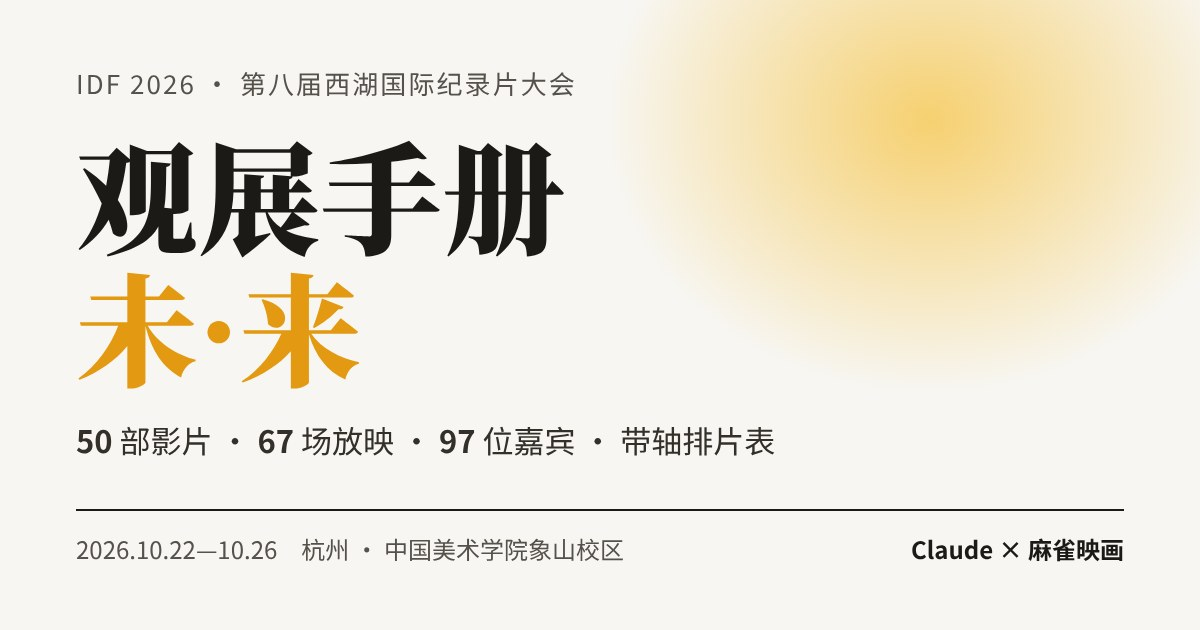
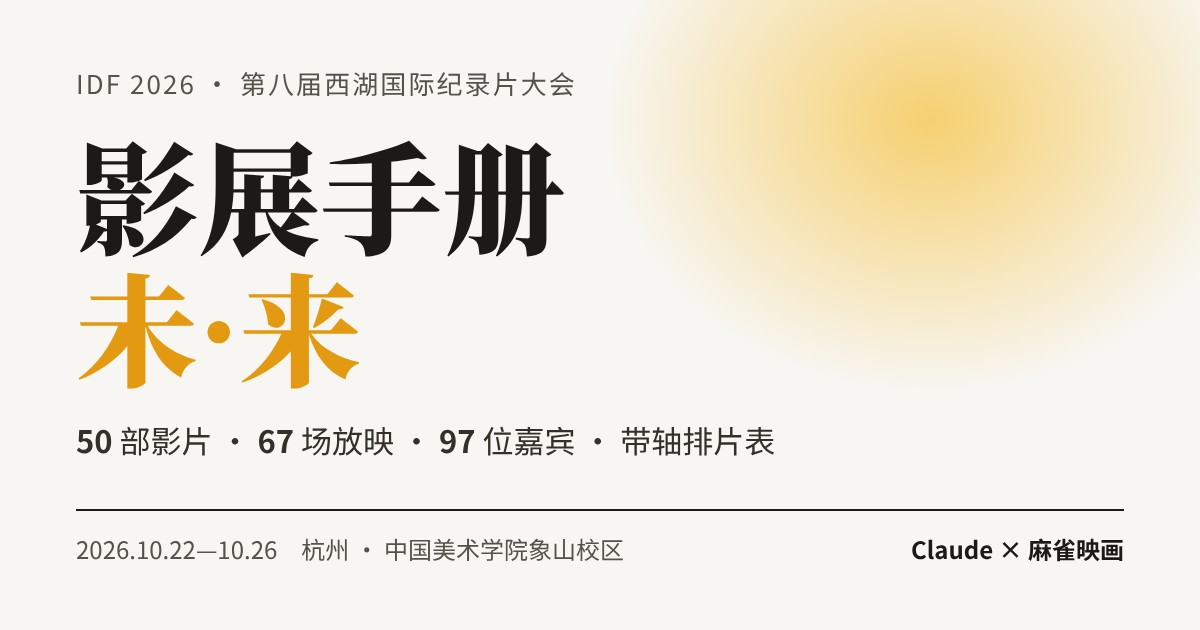
Rename 观展手册 to 影展手册 everywhere
Claude-Session: https://claude.ai/code/session_01GXJMQ1AtU4YhiMQXyR3Uct

Changed region(s): [[0.0617, 0.2111, 0.185, 0.4222]]

diff --git a/index.html b/index.html
@@ -3,7 +3,7 @@
 <head>
 <meta charset="utf-8">
 <meta name="viewport" content="width=device-width,initial-scale=1,maximum-scale=1,viewport-fit=cover">
-<meta name="description" content="第八届西湖国际纪录片大会（2026.10.22—10.26）观展手册：50 部影片、67 场放映、97 位嘉宾，带轴排片表、想看收藏、活动日程与场馆交通。中英双语。由 Claude × 麻雀映画整理。">
+<meta name="description" content="第八届西湖国际纪录片大会（2026.10.22—10.26）影展手册：50 部影片、67 场放映、97 位嘉宾，带轴排片表、想看收藏、活动日程与场馆交通。中英双语。由 Claude × 麻雀映画整理。">
 <meta name="theme-color" content="#f7f6f2" media="(prefers-color-scheme: light)">
 <meta name="theme-color" content="#131210" media="(prefers-color-scheme: dark)">
 <meta name="apple-mobile-web-app-capable" content="yes">
@@ -14,22 +14,22 @@
 <link rel="canonical" href="https://sparrowcinema.github.io/idf2026/">
 <meta property="og:type" content="website">
 <meta property="og:site_name" content="麻雀映画 Sparrow Cinema">
-<meta property="og:title" content="IDF2026 观展手册｜第八届西湖国际纪录片大会">
-<meta property="og:description" content="第八届西湖国际纪录片大会（2026.10.22—10.26）观展手册：50 部影片、67 场放映、97 位嘉宾，带轴排片表、想看收藏、活动日程与场馆交通。中英双语。由 Claude × 麻雀映画整理。">
+<meta property="og:title" content="IDF2026 影展手册｜第八届西湖国际纪录片大会">
+<meta property="og:description" content="第八届西湖国际纪录片大会（2026.10.22—10.26）影展手册：50 部影片、67 场放映、97 位嘉宾，带轴排片表、想看收藏、活动日程与场馆交通。中英双语。由 Claude × 麻雀映画整理。">
 <meta property="og:url" content="https://sparrowcinema.github.io/idf2026/">
-<meta property="og:image" content="https://sparrowcinema.github.io/idf2026/share.jpg">
+<meta property="og:image" content="https://sparrowcinema.github.io/idf2026/share-v2.jpg">
 <meta property="og:image:width" content="1200">
 <meta property="og:image:height" content="630">
 <meta property="og:locale" content="zh_CN">
 <meta property="og:locale:alternate" content="en_US">
 <meta name="twitter:card" content="summary_large_image">
-<meta name="twitter:title" content="IDF2026 观展手册｜第八届西湖国际纪录片大会">
-<meta name="twitter:description" content="第八届西湖国际纪录片大会（2026.10.22—10.26）观展手册：50 部影片、67 场放映、97 位嘉宾，带轴排片表、想看收藏、活动日程与场馆交通。中英双语。由 Claude × 麻雀映画整理。">
-<meta name="twitter:image" content="https://sparrowcinema.github.io/idf2026/share.jpg">
-<meta itemprop="name" content="IDF2026 观展手册">
+<meta name="twitter:title" content="IDF2026 影展手册｜第八届西湖国际纪录片大会">
+<meta name="twitter:description" content="第八届西湖国际纪录片大会（2026.10.22—10.26）影展手册：50 部影片、67 场放映、97 位嘉宾，带轴排片表、想看收藏、活动日程与场馆交通。中英双语。由 Claude × 麻雀映画整理。">
+<meta name="twitter:image" content="https://sparrowcinema.github.io/idf2026/share-v2.jpg">
+<meta itemprop="name" content="IDF2026 影展手册">
 <meta itemprop="image" content="https://sparrowcinema.github.io/idf2026/icon-512.png">
 <style>:root{box-sizing:border-box;padding-top:env(safe-area-inset-top,0px);padding-bottom:env(safe-area-inset-bottom,0px)}body{margin:0}img{max-width:100%}[hidden]{display:none!important}</style>
-<title>IDF2026 观展手册</title>
+<title>IDF2026 影展手册</title>
 <link rel="preconnect" href="https://fonts.googleapis.com">
 <link rel="preconnect" href="https://fonts.gstatic.com" crossorigin>
 <link rel="stylesheet" href="https://fonts.googleapis.com/css2?family=Noto+Serif+SC:wght@500;700&family=Noto+Sans+SC:wght@400;500;700&family=Unbounded:wght@500;700&family=IBM+Plex+Mono:wght@400;500&display=swap">
@@ -837,7 +837,7 @@ const TOCS=[['s-book','观影预约','Booking'],['s-sched','活动日程','Event
 const TICON={"s-book": "<path d=\"M4 7.5a1.5 1.5 0 0 1 1.5-1.5h13A1.5 1.5 0 0 1 20 7.5V10a2 2 0 0 0 0 4v2.5a1.5 1.5 0 0 1-1.5 1.5h-13A1.5 1.5 0 0 1 4 16.5V14a2 2 0 0 0 0-4z\"/><path d=\"M14 6v12\" stroke-dasharray=\"2 2\"/>", "s-sched": "<rect x=\"3.5\" y=\"5\" width=\"17\" height=\"15\" rx=\"2\"/><path d=\"M3.5 9.5h17M8 3v4M16 3v4M7.5 13h3M13.5 13h3M7.5 16.5h3\"/>", "s-venue": "<path d=\"M12 21s-6.5-6-6.5-11a6.5 6.5 0 0 1 13 0c0 5-6.5 11-6.5 11z\"/><circle cx=\"12\" cy=\"10\" r=\"2.4\"/>", "s-awards": "<path d=\"M8 4h8v4.5a4 4 0 0 1-8 0z\"/><path d=\"M8 5.5H5.2a2.6 2.6 0 0 0 2.9 3.9M16 5.5h2.8a2.6 2.6 0 0 1-2.9 3.9M12 12.5V16M8.5 20h7M10 16h4v4h-4z\"/>", "s-pitch": "<path d=\"M9 18h6M10 21h4\"/><path d=\"M12 3a6 6 0 0 0-3.6 10.8c.7.6 1.1 1.3 1.1 2.2h5c0-.9.4-1.6 1.1-2.2A6 6 0 0 0 12 3z\"/>", "s-academy": "<circle cx=\"6.5\" cy=\"7\" r=\"2.5\"/><circle cx=\"6.5\" cy=\"17\" r=\"2.5\"/><path d=\"M8.6 8.4 20 17M8.6 15.6 20 7\"/>", "s-pass": "<rect x=\"5\" y=\"3.5\" width=\"14\" height=\"17\" rx=\"2\"/><circle cx=\"12\" cy=\"10\" r=\"2.6\"/><path d=\"M8.5 16.5c.7-1.6 2-2.4 3.5-2.4s2.8.8 3.5 2.4M10 3.5v2h4v-2\"/>", "s-swap": "<path d=\"M4 8.5h13l-3.5-3.5M20 15.5H7l3.5 3.5\"/>", "s-tips": "<circle cx=\"12\" cy=\"12\" r=\"8.5\"/><path d=\"M12 11v5.5M12 7.6v.2\"/>", "s-city": "<path d=\"M12 3.5 9 6.5h6zM8 6.5h8M9.5 6.5v3M14.5 6.5v3M7 9.5h10M8.5 9.5v4M15.5 9.5v4M6 13.5h12M4 20.5h16M7.5 13.5v7M16.5 13.5v7M10.5 20.5v-3h3v3\"/>"};
 function applyStatic(){
   document.documentElement.lang=EN()?'en':'zh-CN';
-  document.title=T('IDF2026 观展手册','IDF2026 Festival Guide');
+  document.title=T('IDF2026 影展手册','IDF2026 Festival Guide');
   document.querySelectorAll('[data-i]').forEach(el=>{el.textContent=i(el.dataset.i);});
   document.querySelectorAll('.lang [data-lang]').forEach(b=>b.setAttribute('aria-pressed',b.dataset.lang===LANG));
   $('#mastMeta').innerHTML=[[films.length,T('部影片','films')],[SCR.length,T('场放映','screenings')],[guests.length,T('位嘉宾','guests')],[pitch.length,T('个创投项目','pitch projects')]].map(([n,l])=>`<span><b>${n}</b>${l}</span>`).join('');
@@ -1088,9 +1088,9 @@ function drawRecap(){
     const QS=196,qn=QRM.length,cell=Math.floor((QS-24)/qn),qw=cell*qn,qx=W-P-QS,qy=y,lw=W-2*P-QS-36;
     rr(qx,qy,QS,QS,18,'#ffffff',C.line);
     if(draw){ctx.fillStyle=C.ink;const o=(QS-qw)/2;for(let r=0;r<qn;r++)for(let c=0;c<qn;c++)if(QRM[r][c]==='1')ctx.fillRect(qx+o+c*cell,qy+o+r*cell,cell,cell);}
-    F(20,500);tx(T('扫码打开观展手册','Scan for the guide'),qx+QS/2,qy+QS+32,C.ink3,'center');
+    F(20,500);tx(T('扫码打开影展手册','Scan for the guide'),qx+QS/2,qy+QS+32,C.ink3,'center');
     let ly=y+30;F(30,700);wrapText(ctx,T('麻雀映画 × Claude','Sparrow Cinema × Claude'),lw,1).forEach(l=>{tx(l,P,ly,C.ink);ly+=40;});
-    F(26,600);tx(T('IDF2026 观展手册','IDF2026 Festival Guide'),P,ly,C.ink2);ly+=40;
+    F(26,600);tx(T('IDF2026 影展手册','IDF2026 Festival Guide'),P,ly,C.ink2);ly+=40;
     F(22,500,MONO);tx('sparrowcinema.github.io/idf2026',P,ly,C.amberInk);ly+=48;
     F(20,400);wrapText(ctx,T('观众分：IMDb 式加权评分（满 5 人显示）· 我的分：星级 × 2','Avg: IMDb-style weighted audience score (5+ ratings) · Me: stars × 2'),lw,3).forEach(l=>{tx(l,P,ly,C.ink3);ly+=30;});
     y=Math.max(ly,qy+QS+32)+P-10;

diff --git a/README.md b/README.md
@@ -1,7 +1,7 @@
-# IDF2026 观展手册
+# IDF2026 影展手册
 
 网址：https://sparrowcinema.github.io/idf2026/
 
-第八届西湖国际纪录片大会（2026.10.22—10.26，杭州·中国美术学院象山校区）观展手册网页：中英双语，影片与嘉宾检索、带轴排片表、想看收藏、活动日程与服务信息。
+第八届西湖国际纪录片大会（2026.10.22—10.26，杭州·中国美术学院象山校区）影展手册网页：中英双语，影片与嘉宾检索、带轴排片表、想看收藏、活动日程与服务信息。
 
 由 Claude × 麻雀映画整理自《IDF2026 大手册》。排片如有临时调整，请以大会现场通知为准。
